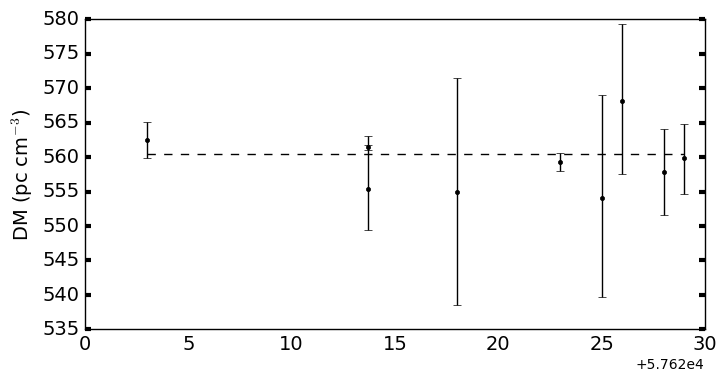
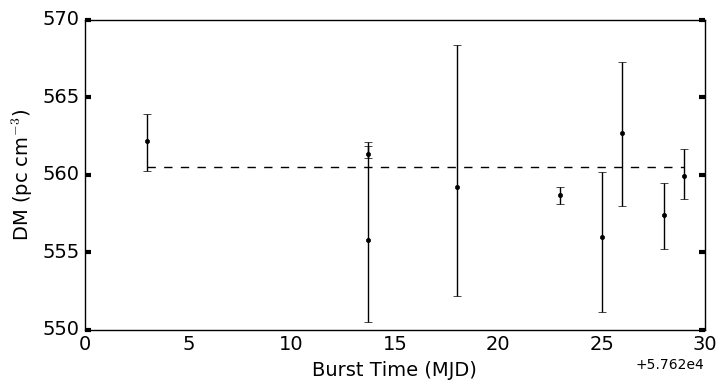
better rephasing bumps fluxes up quite a bit

diff --git a/repeater-vladata.tex b/repeater-vladata.tex
@@ -155,13 +155,13 @@ This paper opens by describing the multi-telescope observing campaign and a refi
 The data presented here were obtained from multiple programs and telescopes, but the central goal was to interferometrically localize \frb\ with the VLA. The observing strategy was to ensure simultaneous observing between the VLA and Arecibo observatories and add other observatories on a best-effort basis. We coordinated observing between the VLA, Arecibo, Effelsberg, and AMI-LA telescopes, as shown in Figure \ref{fig:multi}. Below, we summarize these observations, with a focus on those conducted simultaneously with VLA burst detections from \frb.
 
 \subsection{VLA}
-The \frb\ observing campaign started in late 2015 with a 10~hr campaign observed at 1.4~GHz in the compact D configuration. In April through May 2016, we conducted a 40~hr campaign at 3~GHz in the C and CnB configurations in coordination with Arecibo. We concluded with a 40~hr, coordinated campaign from August through September 2016 in the B configuration and during the move to the most extended A configuration. In this last campaign, the first 34 hours of VLA observations were made at 3~GHz, while the last 6 hours were observed at 6~GHz. This paper focuses on the data collected at 3~GHz, which include all nine burst detections and is the widest bandwidth to have ever detected an FRB.
+The \frb\ observing campaign started in late 2015 with a 10~hr campaign observed at 1.4~GHz in the compact D configuration. In April through May 2016, we conducted a 40~hr campaign at 3~GHz in the C and CnB configurations in coordination with Arecibo. We concluded with a 40~hr, coordinated campaign from August through September 2016 in the B configuration and during the move to the most extended A configuration. In this last campaign, the first 34 hours of VLA observations were made at 3~GHz, while the last 6 hours were observed at 6~GHz. This paper focuses on the data collected at 3~GHz, which includes all nine burst detections and is the widest bandwidth to have ever detected an FRB.
 
-All VLA fast-sampled data were observed with 5~ms sampling, 256 channels, and dual-circular polarization \citep{2015ApJ...807...16L}. The channel frequency width was set to maximize sensitivity to the known DM of \frb, with the largest total bandwidth. The total bandwidth at L (1.4~GHz), S (3~GHz), and C (6~GHz) bands was 256~MHz, 1024~MHz, and 2048~MHz, respectively. The 3~GHz data were recorded data in eight spectral windows with 32 channels each.
+All VLA fast-sampled data were observed with 5~ms sampling, 256 channels, and dual-circular polarization \citep{2015ApJ...807...16L}. The channel frequency width was set to maximize sensitivity to the known DM of \frb with the largest total bandwidth. The total bandwidth at L (1.4~GHz), S (3~GHz), and C (6~GHz) bands was 256~MHz, 1024~MHz, and 2048~MHz, respectively. The 3~GHz data were recorded data in eight spectral windows with 32 channels each.
 
-Observations in August and September were searched by a prototype version of \rf\footnote{See \url{http://realfast.io}.}. \rf\ is a real-time, fast imaging transient search system. The current prototype runs on existing, CPU-based hardware of the VLA correlator backend with transient search pipeline software called \emph{rtpipe} \citep[\url{https://github.com/caseyjlaw/rtpipe};][]{2015ApJ...807...16L}. Images were formed for each integration with a DM grid of 0, 546, 556.9, 560, and 565 pc cm$^{-3}$ and a time resampling grid of 5, 10, 20, 40, and 80 ms. This DM grid was chosen to maintain 90\% sensitivity to the nominal DM range of 540--570 pc cm$^{-3}$, which includes the known \frb\ DM of 559 pc cm$^{-3}$. Gain calibration was made from observations of J0555+3948 by the ''telcal'' system, which uses phase-only calibration. A flux scale is calculated for each spectral window from an observation on {\color{red}xx (Bryan)} and applied to all burst spectra.
+Observations in August and September were searched by a prototype version of \rf\footnote{See \url{http://realfast.io}.}. \rf\ is a real-time, fast imaging transient search system. The current prototype runs on CPU-based hardware that is normally dedicated to the VLA correlator; for this experiment, it runs the transient search pipeline software called \emph{rtpipe} \citep[\url{https://github.com/caseyjlaw/rtpipe};][]{2015ApJ...807...16L}. Images were formed for each integration with a DM grid of 0, 546, 556.9, 560, and 565 pc cm$^{-3}$ and a time resampling grid of 5, 10, 20, 40, and 80 ms. This DM grid was chosen to maintain 90\% sensitivity to the nominal DM range of 540--570 pc cm$^{-3}$, which includes the known \frb\ DM of 559 pc cm$^{-3}$. Gain calibration was made from observations of J0555+3948 by the ''telcal'' system, which uses phase-only calibration. A flux scale is calculated for each spectral window from an observation on {\color{red}xx (Bryan)} and applied to all burst spectra.
 
-Burst detections and localizations were made within hours of data being recorded. The transient search starts when data are recorded and proceeds slower than real-time, so we refer to it as ''quasi real-time''. For each trial DM, integration, and time scale, we form an image and calculate the S/N ratio for the peak pixel in the dirty image. We empirically identified S/N thresholds of 6.4 and 7.4 as useful to capture data quality statistics and candidates for inspection, respectively. The higher threshold is relatively unlikely to be triggered by thermal noise in this configuration, so \rf\ generates a more detailed candidate visualization with an image and spectrum. All visibilities are recorded so detailed analysis, including improved calibration and localization, can be conducted offline. 
+Burst detections and localizations were made within hours of data being recorded. The transient search starts when data are recorded and proceeds slower than real-time, so we refer to it as ''quasi real-time''. For each trial DM, integration, and time scale, we form an image and calculate the S/N ratio for the peak pixel in the dirty image. We empirically identified S/N thresholds of 6.4 and 7.4 as useful to capture data quality statistics and candidates for inspection, respectively. The higher threshold is relatively unlikely to be triggered by thermal noise in this configuration, so \rf\ generates a more detailed (and computationally intensive) candidate visualization that includes an image and spectrum. All visibilities are recorded so detailed analysis, including improved calibration and localization, can be conducted offline. 
 
 Computational notebooks to reproduce the transient detection, localization, and analysis presented here can be found at \url{https://github.com/caseyjlaw/FRB121102}. Time cut-out visibility data and calibration products are available at \url{https://doi.org/10.7910/DVN/TLDKXG}. Original visibility data are available under VLA program codes 16A-459 and 16A-496 and can be downloaded at \url{http://archive.nrao.edu}.
 
@@ -229,9 +229,13 @@ This simultaneous detection of a burst from roughly 1.2 to 3.5~GHz shows that so
 \end{figure*}
 
 
-\subsubsection{Spectra}
+\subsubsection{Spectral Modeling}
 \label{sec:spec}
-Figure \ref{fig:sgram} shows the dynamic spectra of all nine bursts detected by the VLA. We improved on the initial analysis presented in \citet{LOC} by using a better calibration scheme and optimizing the detection significance over a fine grid of DM ($\Delta \rm{DM}=1\ \rm{pc}\ \rm{cm}^{-3}$). Table \ref{tab:spec} shows the optimal image integrated flux density, image S/N, and Stokes V using this new scheme. Improved burst spectral parameters are also measured from MCMC modeling of the dynamic spectra.
+We used two techniques to refine the analysis of the nine VLA radio burst spectra presented in \citet{LOC}. First, we improved on the initial analysis by using a better calibration scheme and optimizing the detection significance over a fine grid of DM ($\Delta \rm{DM}=1\ \rm{pc}\ \rm{cm}^{-3}$). In Table \ref{tab:spec}, the integrated burst flux density, image S/N, and Stokes V are measured from this optimized detection.
+
+Second, we extracted dynamic radio spectra (time versus frequency) to quantify the spectral structure and dispersion for all nine VLA bursts. After calibration and flagging, the visibility phases were rotated to the best-fit location for \frb \citep{LOC}. The Stokes I dynamic spectrum were formed by calculating the real part of the mean visibility over all baselines and both polarizations.
+
+The best model of the dynamic spectrum is described in Table \ref{tab:spec}. These values were calculated using a generative model to draw 2d dynamic spectra with the MCMC sampler \emph{emcee} \citep{2013PASP..125..306F}. The model consisted of a spectral component defined as a Gaussian shape with a temporal component (a delay as a function of frequency) defined by a start time, DM, and width. All parameters are calculated at floating point precision and then rounded to channel/integration units before calculating the log-likelihood. A flat prior was used over all parameters, including a prior that the Gaussian integral must produce a detection significance higher than 8$\sigma$. Since the spectral power shows up to 100\% modulation between channels, we estimate the model error as the maximum of the modeled flux and the measured, off-burst noise value. The off-burst noise is estimated from the median absolute deviation of time-frequency data before the start of the burst and is typically 70 mJy.
 
 \begin{table*}
 \caption{Properties of Bursts from \frb}
@@ -240,22 +244,24 @@ Figure \ref{fig:sgram} shows the dynamic spectra of all nine bursts detected by 
 \hline
 Date                & S$_{\rm{int}}$  & Image S/N & E$_{\rm{int}}$ & DM$_{\rm{opt}}$ & S$_{\rm{peak}}$ & Center & FWHM & S$_{\rm{V}}$ \\
 (MJD)               & (mJy)           &           & ($10^{38}$\ erg) & (pc cm$^{-3})$ & (mJy) & (GHz)  & (MHz) & (mJy) \\ \hline
-57623.74402686      & 258             & 38        & 7.8  & 562.5 & 460 & 2.8 & 300 & --2 \\
-57633.67986367      & 2000            & 179       & 65   & 561.4 & 2200 & 3.2 & 520 & --44 \\
-57633.69515938\tablenotemark{a} & 105       & 15        & 5.9  & 555.4 & $>$320 & $<$2.5 & $>$320 & +9 \\
-57638.49937435      & 65              & 12        & 1.8  & 554.9 & 70 & 3.1 & 440 & +4 \\
-57643.45730263      & 375             & 100       & 13   & 559.3 & 440 & 2.8 & 530 & +9 \\
-57645.42958602      & 38              & 13        & 2.6  & 554.1 & 50 & 2.7 & 970 & +3 \\
-57646.46600650\tablenotemark{a} & 69           & 20        & 3.9  & 568.1 & $>$190 & $<$2.5 & $>$360 & +3 \\
-57648.43691490\tablenotemark{b} & 97           & 25        & 2.9  & 557.8 & 110 & 2.8 & 440 & +7 \\
-57649.45175697      & 110             & 36        & 6.3  & 559.9 & 80 & 2.9 & 1400 & --1 \\ \hline
+57623.74402686      & 194             & 38        & 11 & 562.1 & 700 & 2.8 & 290 & +3 \\ % 7.8  & 562.5 & 460 & 2.8 & 300 & +3 \\
+57633.67986367      & 1500            & 179       & 97 & 561.3 & 3340 & 3.2 & 510 & --35 \\ % 65   & 561.4 & 2200 & 3.2 & 520 & --35 \\
+57633.69515938\tablenotemark{a} & 69  & 15        & 7 & 555.8 & $>$430 & $<$2.5 & 290 & +2 \\ % 5.9  & 555.4 & $>$320 & $<$2.5 & $>$320 & +2 \\
+57638.49937435      & 55              & 12        & 3 & 559.2 & 130 & 3.1 & 420 & +5 \\ % 1.8  & 554.9 & 70 & 3.1 & 440 & +5 \\
+57643.45730263      & 508             & 100       & 34 & 558.7 & 1170 & 2.8 & 510 & --5 \\ % 13   & 559.3 & 440 & 2.8 & 530 & --5 \\
+57645.42958602      & 64              & 13        & 4 & 555.9 & 170 & 2.8 & 380 & +3 \\ % 2.6  & 554.1 & 50 & 2.7 & 970 & +3 \\
+57646.46600650\tablenotemark{a} & 87  & 20        & 10 & 562.7 & $>$420 & $<$2.5 & 420 & +1 \\ % 3.9  & 568.1 & $>$190 & $<$2.5 & $>$360 & +1 \\
+57648.43691490\tablenotemark{b} & 111 & 25        & 7 & 557.4 & 260 & 2.8 & 470 & +9 \\ % 2.9  & 557.8 & 110 & 2.8 & 440 & +9 \\
+57649.45175697      & 167             & 36        & 12 & 559.9 & 290 & 3.0 & 690 & +1 \\ \hline % 6.3  & 559.9 & 80 & 2.9 & 1400 & +1 \\ \hline
 \end{tabular}
 \tablenotetext{a}{Best-fit Gaussian is not centered in 3~GHz band, so spectral parameters are limits.}
 \tablenotetext{b}{Detected simultaneously with Arecibo between 1.15 and 1.73~GHz.}
 \label{tab:spec}
 \end{table*} 
 
-Figure \ref{fig:spec} shows the spectrum of the integration and DM that maximizes the burst detection significance. After DM optimization, most bursts appear unresolved at the 5~ms time resolution of the VLA data. One exception is the brightest burst at 57633.68, for which roughly 10\% of the peak flux density is seen in adjacent 5~ms integrations. **elaborate on 57633.68 time width**
+Figure \ref{fig:spec} shows the spectra
+
+**elaborate on 57633.68 time width**
 
 \begin{figure*}[ht]
 \begin{center}
